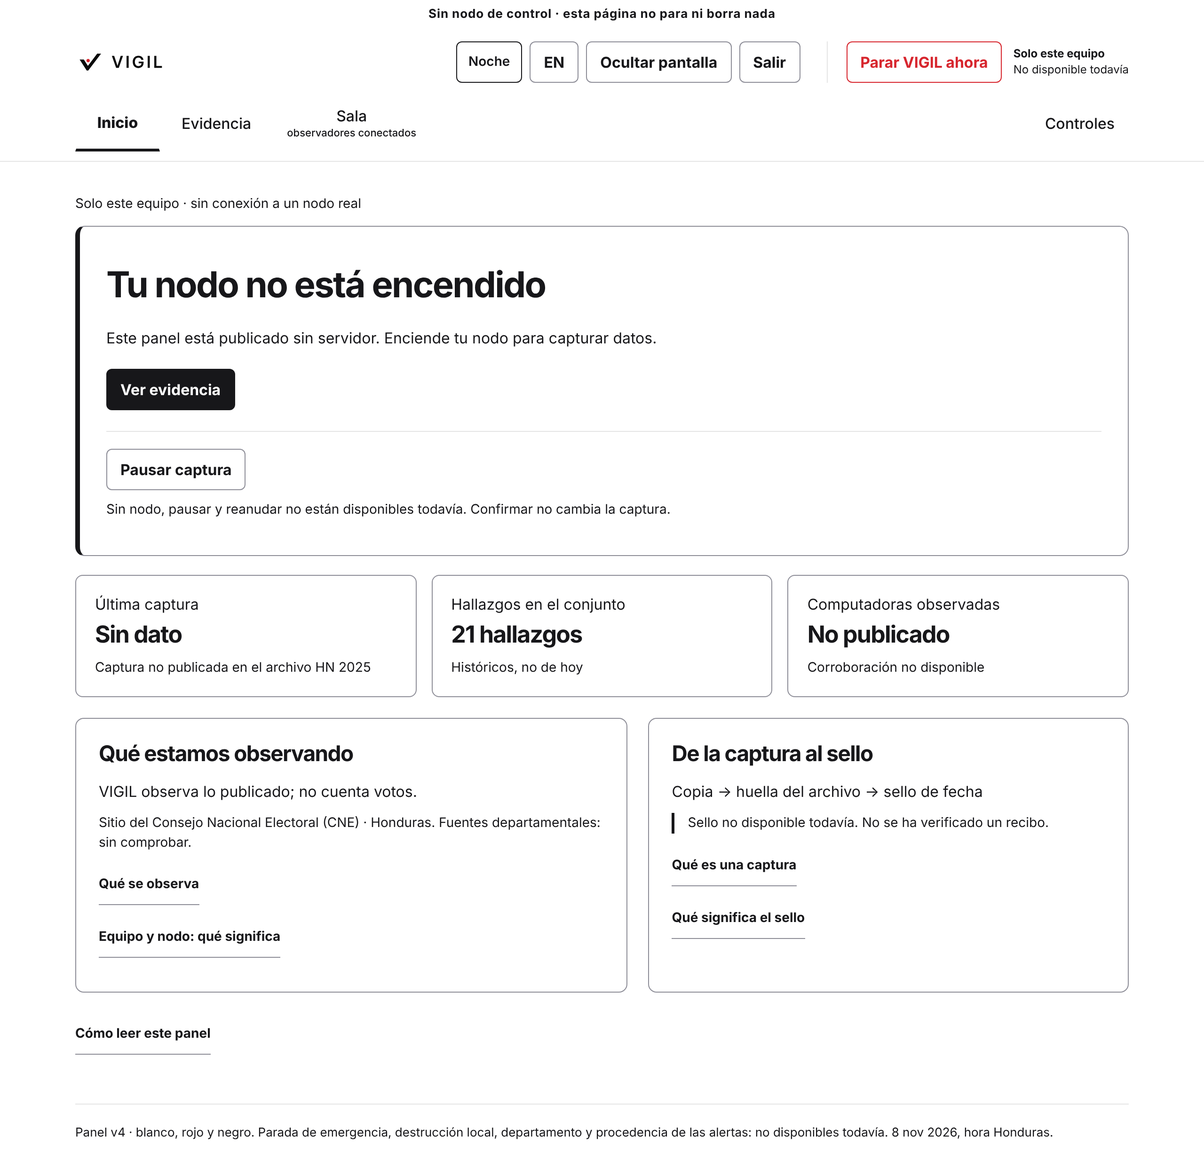
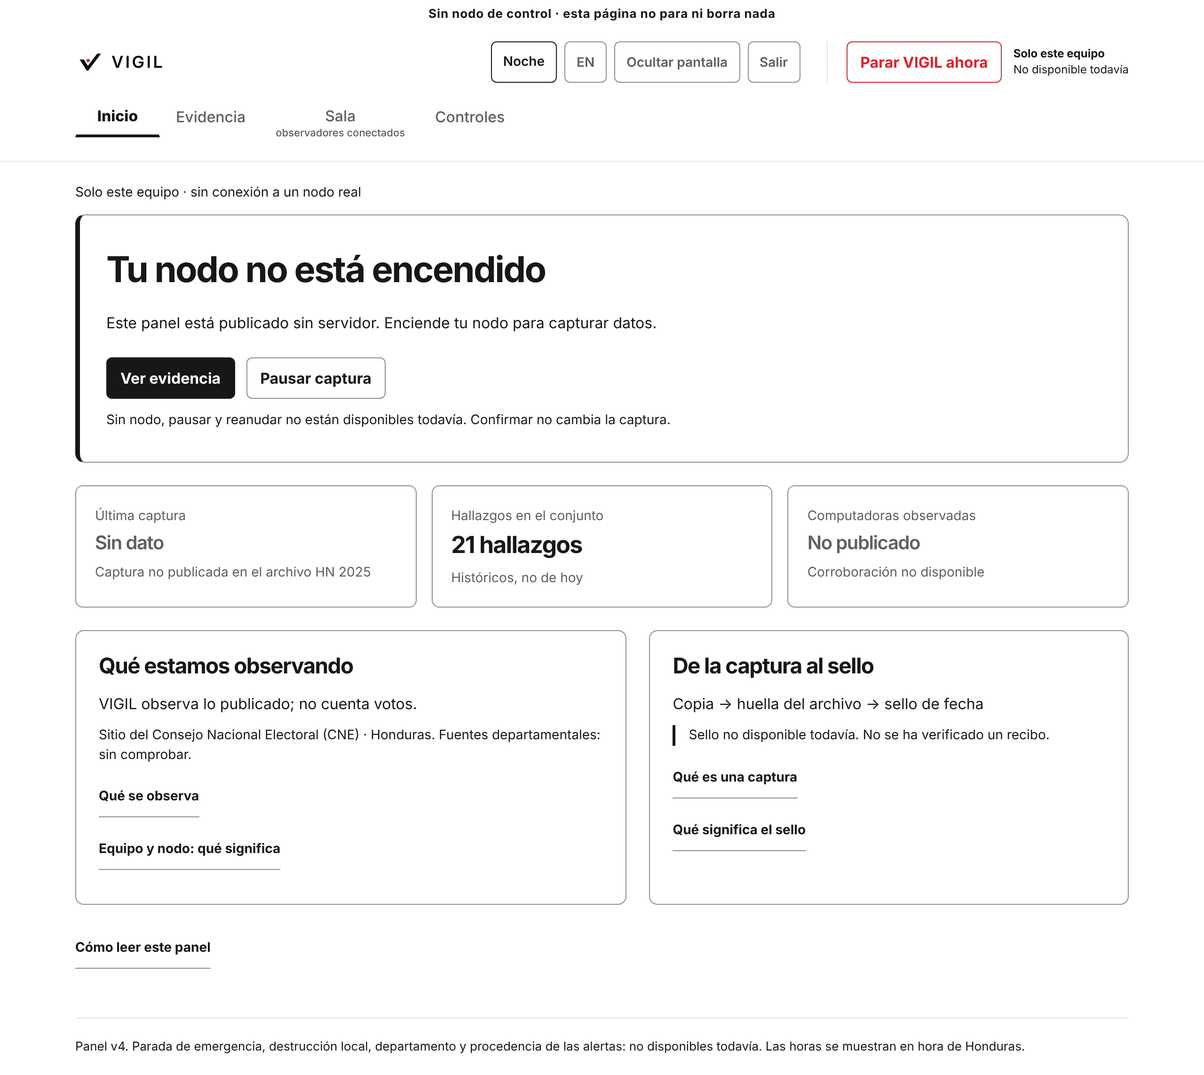
El panel se lee de un vistazo: pestanas, una fila de acciones y un dato que falta sin gritar
Cuatro defectos de la pantalla de inicio, los cuatro medidos antes y despues.

LA NAVEGACION PARECIA ROTA

`.nav button:last-child{margin-left:auto}` empujaba «Controles» al extremo
contrario de la barra. Medido: 638 px de hueco entre esa pestana y su vecina.
Eso no se lee como una decision sino como un fallo de maquetacion. Las cuatro
van juntas ahora —hueco de 2 px—, la activa en el color principal con su
subrayado y las demas en `--muted`, que es lo que distingue una pestana de un
boton.

Las etiquetas tampoco alineaban: «Sala» lleva un subtitulo y su boton es mas
alto, asi que con el centrado vertical por defecto su texto flotaba respecto a
las otras tres. `align-items:flex-start` las pone a la misma altura; medido,
las cuatro arrancan en 102 px.

LA ACCION PRINCIPAL Y LA SECUNDARIA ESTABAN SEPARADAS POR UN FILETE

`v4CaptureBlock()` devolvia boton y nota juntos dentro de un `.action-unit`
con borde superior, de modo que «Pausar captura» colgaba sola bajo una linea,
lejos de «Ver evidencia». Dos acciones del mismo bloque, dibujadas como si
fueran de secciones distintas.

El bloque se parte en `v4CaptureButton()` y `v4CaptureNote()`, y la pestana de
inicio pone los dos botones en la misma fila con la nota debajo.
`v4CaptureBlock()` sigue existiendo, compuesto de los dos, porque la pestana de
controles lo usa tal cual. El id `capture-button` no cambia: lo usan diez
aserciones de `test_ops_panel_state.py`.
[…]

diff --git a/web/ops/ops-v4.css b/web/ops/ops-v4.css
@@ -1,4 +1,4 @@
-:root{--red:#D7262E;--fg:#17171A;--bg:#ffffff;--border:#8E8E98;--hairline:#E5E5E5;--on-red:#ffffff;--ink:var(--fg);--paper:var(--bg);font-family:system-ui,-apple-system,'Segoe UI',sans-serif;color:var(--fg);background:var(--bg);font-synthesis:none}*{box-sizing:border-box}body{margin:0}button,input,select{font:inherit;color:var(--fg);background:var(--bg);border:1px solid var(--border);border-radius:6px;min-height:44px;padding:10px 14px;max-width:100%}button,summary{cursor:pointer;touch-action:manipulation}button{font-weight:650}button:hover:not(:disabled){text-decoration:underline;text-underline-offset:4px}button:disabled{border-style:dashed;cursor:not-allowed}a{color:var(--fg);text-underline-offset:4px}a,button,input,select,summary{scroll-margin:260px 0 100px}:focus-visible{outline:3px solid var(--fg);outline-offset:3px;box-shadow:0 0 0 6px var(--bg),0 0 0 9px var(--fg)}[hidden]{display:none!important}p{line-height:1.55;margin:10px 0}h1,h2,h3{letter-spacing:-.035em;line-height:1.18;margin:0}h1{font-size:38px;max-width:790px}h2{font-size:23px}h3{font-size:19px}small,.small{font-size:14px;line-height:1.5}.eyebrow{font-size:12px;letter-spacing:.12em;text-transform:uppercase;font-weight:700;margin-bottom:12px}.red{color:var(--red)}.primary{background:var(--fg);color:var(--bg);border-color:var(--fg)}.danger{border-color:var(--red);color:var(--red)}.solid{background:var(--red);color:var(--on-red);border-color:var(--red)}.skip{position:fixed;top:-100px;left:16px;z-index:20;background:var(--bg);padding:16px;border:2px solid var(--border)}.skip:focus{top:12px}.mast{position:sticky;top:0;z-index:5;background:var(--bg);border-bottom:1px solid var(--hairline)}.sim{background:var(--fg);color:var(--bg);padding:7px 20px;text-align:center;font-size:13px;font-weight:700;letter-spacing:.035em}.bar{max-width:1120px;margin:auto;display:flex;align-items:center;gap:16px;padding:14px 0}.brand{font-size:27px;font-weight:850;letter-spacing:-1.5px}.brand:before{content:'';display:inline-block;width:5px;height:23px;background:var(--red);margin-right:9px}.tools{display:flex;gap:8px;margin-left:auto}.emergency{display:flex;align-items:center;gap:12px;border-left:1px solid var(--hairline);padding-left:20px;margin-left:12px}.emergency p{font-size:12px;line-height:1.4;margin:0;max-width:215px}.nav{display:flex;gap:8px;max-width:1120px;margin:auto;padding:0 0 10px}.nav button{border-color:transparent;font-weight:550;border-radius:0;min-width:90px}.nav button[aria-current]{border-bottom:3px solid var(--fg);font-weight:800}.nav button:last-child{margin-left:auto}.wrap{max-width:1120px;margin:auto}main{padding:36px 0 40px;min-height:60vh}section,article{min-width:0}.meta{margin-bottom:15px;font-size:14px}.hero{border:1px solid var(--border);border-left:5px solid var(--fg);padding:28px;border-radius:10px}.hero.attention{border-left-color:var(--red)}.hero.attention h1{color:var(--red)}.hero p{max-width:780px}.actions{display:flex;gap:10px;align-items:center;flex-wrap:wrap;margin:20px 0 0}.action-unit{margin-top:22px;border-top:1px solid var(--hairline);padding-top:18px}.action-unit p{font-size:14px;max-width:780px}.cards{display:grid;grid-template-columns:repeat(3,1fr);gap:16px;margin:20px 0}.metric{border:1px solid var(--border);border-radius:8px;padding:20px}.metric b{display:block;font-size:25px;letter-spacing:-.035em;margin:8px 0}.grid{display:grid;grid-template-columns:1.15fr 1fr;gap:22px;margin:22px 0}.card{border:1px solid var(--border);border-radius:9px;padding:24px;margin-top:20px}.grid .card{margin:0}.card h2{margin-bottom:14px}.note{border-left:3px solid var(--fg);padding-left:14px;font-size:14px}.critical{border-left:4px solid var(--red)}.tag{display:inline-block;border:1px solid var(--border);padding:4px 9px;border-radius:25px;font-size:13px;font-weight:600}.tag.critical{border:1px solid var(--red);color:var(--red)}.finding{border-top:1px solid var(--hairline);padding:20px 0}.finding:first-child{border:0;padding-top:4px}.finding h3{margin:10px 0}.finding .meta-line{display:flex;gap:10px;align-items:center;justify-content:space-between;flex-wrap:wrap}.help-unit{margin:12px 0}.help-toggle{border:0;border-bottom:1px solid var(--border);border-radius:0;padding:8px 0;font-size:14px;min-height:44px}.help-panel{border-left:3px solid var(--fg);padding:8px 16px;margin:8px 0;max-width:760px}.help-panel p{font-size:15px}details{border-top:1px solid var(--hairline);padding:8px 0;margin-top:18px}summary{font-weight:650;padding:12px 0;min-height:48px}label{display:block;font-size:14px;font-weight:650;margin:14px 0 7px}input,select{width:100%;font-size:16px}.filters{display:grid;grid-template-columns:repeat(2,minmax(0,1fr));gap:0 16px}.error{color:var(--red);font-weight:650}.filters .wide{grid-column:1/-1}.geo-layout{display:grid;grid-template-columns:1fr 1fr;gap:24px;align-items:start}.map-wrap{margin:10px auto}.map-wrap svg{display:block;width:100%;height:auto}.map-wrap path{fill:var(--bg);stroke:var(--fg);stroke-width:1.3;vector-effect:non-scaling-stroke}.map-wrap path.selected{fill:var(--fg);stroke:var(--red);stroke-width:3}.table-wrap{overflow:auto}table{border-collapse:collapse;width:100%;font-size:14px}th,td{padding:8px 4px;border-bottom:1px solid var(--hairline);text-align:left}th button{border:0;border-radius:0;padding:8px 0;font-weight:550;text-align:left;min-width:44px}th button[aria-pressed=true]{text-decoration:underline;font-weight:800}caption{text-align:left;font-size:14px;padding:10px 0}.downloads{display:flex;flex-wrap:wrap;gap:10px;margin-top:16px}.status{border-left:3px solid var(--fg);padding:0 12px;margin:18px 0;line-height:1.5}.status.attention{border-color:var(--red);color:var(--red)}.option{padding:18px 0;border-top:1px solid var(--hairline)}.option p{font-size:14px}.demo{padding:18px 0 30px;border-top:1px solid var(--hairline)}.demo summary{font-size:14px}.demo-grid{display:grid;grid-template-columns:repeat(4,minmax(0,1fr));gap:16px}.footer{font-size:13px;border-top:1px solid var(--hairline);padding:22px 0}.dialog{color:var(--fg);background:var(--bg);border:2px solid var(--border);border-radius:14px;padding:28px;width:calc(100% - 32px);max-width:580px;max-height:88dvh;overflow:auto}.dialog::backdrop{background:rgba(0,0,0,.75)}.dialog h2{font-size:28px;margin:14px 0}.dialog .actions{justify-content:flex-end}.dialog .sim{margin:-28px -28px 20px}.cancel{position:sticky;bottom:0;background:var(--bg);padding:8px 0}.sr{position:absolute;width:1px;height:1px;padding:0;overflow:hidden;clip-path:inset(50%);white-space:nowrap}.cover{position:fixed;inset:0;background:var(--bg);z-index:30;display:grid;place-content:center;text-align:center;padding:24px}.cover .sim{position:absolute;top:0;left:0;right:0}.mono{font-family:ui-monospace,monospace;overflow-wrap:anywhere}.empty{padding:20px 0}.page-title{margin-bottom:22px}.page-title p{max-width:740px}.stopped-state{border:2px solid var(--border);border-radius:6px;padding:8px 12px;font-size:13px!important;max-width:260px!important}.nav small{display:block;font-size:11px;font-weight:500}.receipt{border:1px dashed var(--border);padding:16px;margin-top:18px}
+:root{--red:#D7262E;--fg:#17171A;--bg:#ffffff;--border:#8E8E98;--hairline:#E5E5E5;--on-red:#ffffff;--muted:#5E5E66;--s1:4px;--s2:8px;--s3:16px;--s4:24px;--s5:40px;--s6:64px;--ink:var(--fg);--paper:var(--bg);font-family:system-ui,-apple-system,'Segoe UI',sans-serif;color:var(--fg);background:var(--bg);font-synthesis:none}*{box-sizing:border-box}body{margin:0}button,input,select{font:inherit;color:var(--fg);background:var(--bg);border:1px solid var(--border);border-radius:6px;min-height:44px;padding:10px 14px;max-width:100%}button,summary{cursor:pointer;touch-action:manipulation}button{font-weight:650}button:hover:not(:disabled){text-decoration:underline;text-underline-offset:4px}button:disabled{border-style:dashed;cursor:not-allowed}a{color:var(--fg);text-underline-offset:4px}a,button,input,select,summary{scroll-margin:260px 0 100px}:focus-visible{outline:3px solid var(--fg);outline-offset:3px;box-shadow:0 0 0 6px var(--bg),0 0 0 9px var(--fg)}[hidden]{display:none!important}p{line-height:1.55;margin:10px 0}h1,h2,h3{letter-spacing:-.035em;line-height:1.18;margin:0}h1{font-size:38px;max-width:790px}h2{font-size:23px}h3{font-size:19px}small,.small{font-size:14px;line-height:1.5}.eyebrow{font-size:12px;letter-spacing:.12em;text-transform:uppercase;font-weight:700;margin-bottom:12px}.red{color:var(--red)}.primary{background:var(--fg);color:var(--bg);border-color:var(--fg)}.danger{border-color:var(--red);color:var(--red)}.solid{background:var(--red);color:var(--on-red);border-color:var(--red)}.skip{position:fixed;top:-100px;left:16px;z-index:20;background:var(--bg);padding:16px;border:2px solid var(--border)}.skip:focus{top:12px}.mast{position:sticky;top:0;z-index:5;background:var(--bg);border-bottom:1px solid var(--hairline)}.sim{background:var(--fg);color:var(--bg);padding:7px 20px;text-align:center;font-size:13px;font-weight:700;letter-spacing:.035em}.bar{max-width:1120px;margin:auto;display:flex;align-items:center;gap:16px;padding:14px 0}.brand{font-size:27px;font-weight:850;letter-spacing:-1.5px}.brand:before{content:'';display:inline-block;width:5px;height:23px;background:var(--red);margin-right:9px}.tools{display:flex;gap:var(--s2);margin-left:auto}.tools button{font-size:14px;font-weight:600;padding:9px 12px;color:var(--muted)}.tools button:hover:not(:disabled){color:var(--fg)}.emergency{display:flex;align-items:center;gap:12px;border-left:1px solid var(--hairline);padding-left:20px;margin-left:12px}.emergency p{font-size:12px;line-height:1.4;margin:0;max-width:215px}.nav{display:flex;gap:2px;align-items:flex-start;max-width:1120px;margin:auto;padding:0 0 10px}.nav button{border-color:transparent;font-weight:550;border-radius:0;min-width:90px;color:var(--muted)}.nav button[aria-current]{border-bottom:3px solid var(--fg);font-weight:800;color:var(--fg)}.wrap{max-width:1120px;margin:auto}main{padding:var(--s4) 0 var(--s5);min-height:60vh}section,article{min-width:0}.meta{margin-bottom:15px;font-size:14px}.hero{border:1px solid var(--border);border-left:5px solid var(--fg);padding:var(--s4) 28px;border-radius:10px}.hero.attention{border-left-color:var(--red)}.hero.attention h1{color:var(--red)}.hero p{max-width:780px}.hero>.small,.hero>.note{margin-top:12px}.actions{display:flex;gap:12px;align-items:center;flex-wrap:wrap;margin:var(--s4) 0 0}.action-unit{margin-top:22px;border-top:1px solid var(--hairline);padding-top:18px}.action-unit p{font-size:14px;max-width:780px}.cards{display:grid;grid-template-columns:repeat(3,1fr);gap:var(--s3);margin:var(--s4) 0}.metric{border:1px solid var(--border);border-radius:8px;padding:20px}.metric b{display:block;font-size:25px;letter-spacing:-.035em;margin:8px 0}.metric span{color:var(--muted);font-size:14px}.metric small{color:var(--muted)}.metric.sin-dato b{font-size:20px;font-weight:600;color:var(--muted)}.grid{display:grid;grid-template-columns:1.15fr 1fr;gap:var(--s4);margin:var(--s4) 0}.card{border:1px solid var(--border);border-radius:9px;padding:var(--s4);margin-top:var(--s4)}.grid .card{margin:0}.card h2{margin-bottom:14px}.note{border-left:3px solid var(--fg);padding-left:14px;font-size:14px}.critical{border-left:4px solid var(--red)}.tag{display:inline-block;border:1px solid var(--border);padding:4px 9px;border-radius:25px;font-size:13px;font-weight:600}.tag.critical{border:1px solid var(--red);color:var(--red)}.finding{border-top:1px solid var(--hairline);padding:20px 0}.finding:first-child{border:0;padding-top:4px}.finding h3{margin:10px 0}.finding .meta-line{display:flex;gap:10px;align-items:center;justify-content:space-between;flex-wrap:wrap}.help-unit{margin:12px 0}.help-toggle{border:0;border-bottom:1px solid var(--border);border-radius:0;padding:8px 0;font-size:14px;min-height:44px}.help-panel{border-left:3px solid var(--fg);padding:8px 16px;margin:8px 0;max-width:760px}.help-panel p{font-size:15px}details{border-top:1px solid var(--hairline);padding:8px 0;margin-top:18px}summary{font-weight:650;padding:12px 0;min-height:48px}label{display:block;font-size:14px;font-weight:650;margin:14px 0 7px}input,select{width:100%;font-size:16px}.filters{display:grid;grid-template-columns:repeat(2,minmax(0,1fr));gap:0 16px}.error{color:var(--red);font-weight:650}.filters .wide{grid-column:1/-1}.geo-layout{display:grid;grid-template-columns:1fr 1fr;gap:24px;align-items:start}.map-wrap{margin:10px auto}.map-wrap svg{display:block;width:100%;height:auto}.map-wrap path{fill:var(--bg);stroke:var(--fg);stroke-width:1.3;vector-effect:non-scaling-stroke}.map-wrap path.selected{fill:var(--fg);stroke:var(--red);stroke-width:3}.table-wrap{overflow:auto}table{border-collapse:collapse;width:100%;font-size:14px}th,td{padding:8px 4px;border-bottom:1px solid var(--hairline);text-align:left}th button{border:0;border-radius:0;padding:8px 0;font-weight:550;text-align:left;min-width:44px}th button[aria-pressed=true]{text-decoration:underline;font-weight:800}caption{text-align:left;font-size:14px;padding:10px 0}.downloads{display:flex;flex-wrap:wrap;gap:10px;margin-top:16px}.status{border-left:3px solid var(--fg);padding:0 12px;margin:18px 0;line-height:1.5}.status.attention{border-color:var(--red);color:var(--red)}.option{padding:18px 0;border-top:1px solid var(--hairline)}.option p{font-size:14px}.demo{padding:18px 0 30px;border-top:1px solid var(--hairline)}.demo summary{font-size:14px}.demo-grid{display:grid;grid-template-columns:repeat(4,minmax(0,1fr));gap:16px}.footer{font-size:13px;border-top:1px solid var(--hairline);padding:22px 0}.dialog{color:var(--fg);background:var(--bg);border:2px solid var(--border);border-radius:14px;padding:28px;width:calc(100% - 32px);max-width:580px;max-height:88dvh;overflow:auto}.dialog::backdrop{background:rgba(0,0,0,.75)}.dialog h2{font-size:28px;margin:14px 0}.dialog .actions{justify-content:flex-end}.dialog .sim{margin:-28px -28px 20px}.cancel{position:sticky;bottom:0;background:var(--bg);padding:8px 0}.sr{position:absolute;width:1px;height:1px;padding:0;overflow:hidden;clip-path:inset(50%);white-space:nowrap}.cover{position:fixed;inset:0;background:var(--bg);z-index:30;display:grid;place-content:center;text-align:center;padding:24px}.cover .sim{position:absolute;top:0;left:0;right:0}.mono{font-family:ui-monospace,monospace;overflow-wrap:anywhere}.empty{padding:20px 0}.page-title{margin-bottom:22px}.page-title p{max-width:740px}.stopped-state{border:2px solid var(--border);border-radius:6px;padding:8px 12px;font-size:13px!important;max-width:260px!important}.nav small{display:block;font-size:11px;font-weight:500}.receipt{border:1px dashed var(--border);padding:16px;margin-top:18px}
 @media(max-width:1180px){.wrap,.bar,.nav{margin-left:28px;margin-right:28px}}
 @media(max-width:700px){.bar{margin:0;padding:10px 18px;flex-wrap:wrap;gap:8px}.brand{font-size:24px}.tools{gap:6px}.tools button{font-size:14px;padding:8px}.emergency{order:3;border-left:0;border-top:1px solid var(--hairline);padding:10px 0 0;margin:0;gap:10px;width:100%}.emergency button{font-size:14px;flex:0 0 auto;padding:10px}.emergency p{font-size:12px;max-width:none}.nav{margin:0 12px;padding-bottom:5px;gap:0;display:grid;grid-template-columns:repeat(4,minmax(0,1fr))}.nav button{min-width:0;padding:10px 2px;font-size:14px}.nav button:last-child{margin-left:0}.sim{font-size:12px;padding:7px 12px;line-height:1.35}.wrap{margin:0 18px}main{padding-top:24px}h1{font-size:30px}h2{font-size:22px}.hero{padding:22px 18px}.hero p{font-size:16px}.cards{grid-template-columns:1fr;gap:0;margin:18px 0}.metric{border-radius:0;border-bottom:0;padding:16px}.metric:first-child{border-radius:7px 7px 0 0}.metric:last-child{border-bottom:1px solid var(--hairline);border-radius:0 0 7px 7px}.metric b{font-size:23px}.grid,.geo-layout{grid-template-columns:1fr;gap:18px}.card{padding:20px 18px}.actions button{flex:1}.actions{align-items:stretch}.action-unit p{font-size:14px}.demo-grid{grid-template-columns:1fr 1fr}.dialog{padding:24px;max-height:90dvh;border-radius:12px}.dialog .sim{margin:-24px -24px 18px}.dialog .actions{flex-direction:column}.dialog .cancel{padding:10px 0 0}.filters{grid-template-columns:1fr}.filters .wide{grid-column:auto}.downloads{display:grid;grid-template-columns:1fr}.small{font-size:14px}.meta{font-size:13px}.footer{padding-bottom:28px}a,button,input,select,summary{scroll-margin-top:260px}}
 @media(prefers-reduced-motion:reduce){*{scroll-behavior:auto!important}}@media print{.mast,.demo,.footer,.actions,.downloads{display:none}main{padding:0}.wrap{margin:0}details{display:block}}
@@ -21,3 +21,6 @@ html[data-ops-tab="avanzado"] #main-area > [data-tab="avanzado"]{display:block !
 .section{min-width:0}
 
 @media(max-width:700px){html[data-theme] .nav{background:var(--bg);border-top-color:var(--fg)}}
+
+html[data-theme] .mast .tools .theme-toggle{border-color:var(--border);color:var(--muted);font-weight:600}
+html[data-theme] .mast .tools .theme-toggle:hover{color:var(--fg)}

diff --git a/web/ops/js/ops-v4.js b/web/ops/js/ops-v4.js
@@ -220,16 +220,23 @@ function v4Banner() {
     : v4t('Nodo de control conectado · parada de emergencia y destrucción no están disponibles', 'Control node connected · emergency stop and destruction are not available');
 }
 
-function v4CaptureBlock(buttonId) {
+function v4CaptureButton(buttonId) {
+  if (!v4CanOperate()) return '';
+  const paused = V4.capture === 'paused' && V4.captureKnown;
+  const id = buttonId || 'capture-button';
+  return paused
+    ? v4Btn('Reanudar captura', 'Resume capture', 'resume', '', false, id)
+    : v4Btn('Pausar captura', 'Pause capture', 'pause', '', false, id);
+}
+
+// La nota vive aparte del boton para que el boton pueda ir en la fila de
+// acciones, junto a la accion principal, en vez de colgar solo bajo un filete.
+function v4CaptureNote() {
   if (!v4CanOperate()) {
     return v4P('Vista de observador: sin acciones de operación.', 'Observer view: no operating actions.', 'note');
   }
   const paused = V4.capture === 'paused' && V4.captureKnown;
-  const id = buttonId || 'capture-button';
-  const label = paused
-    ? v4Btn('Reanudar captura', 'Resume capture', 'resume', '', false, id)
-    : v4Btn('Pausar captura', 'Pause capture', 'pause', '', false, id);
-  const note = v4Pages()
+  return v4Pages()
     ? v4P('Sin nodo, pausar y reanudar no están disponibles todavía. Confirmar no cambia la captura.', 'Without a node, pause and resume are not available yet. Confirming does not change capture.', 'small')
     : v4P(paused
       ? 'Reanudar pide al nodo que inicie de nuevo con una captura inmediata. No recupera un proceso suspendido.'
@@ -237,7 +244,11 @@ function v4CaptureBlock(buttonId) {
       paused
       ? 'Resume asks the node to start again with an immediate capture. It does not recover a suspended process.'
       : 'Pause asks the node to stop capture alone. A task in progress may finish. Saved data is not deleted.');
-  return `<div class="action-unit">${label}${note}</div>`;
+}
+
+function v4CaptureBlock(buttonId) {
+  if (!v4CanOperate()) return v4CaptureNote();
+  return `<div class="action-unit">${v4CaptureButton(buttonId)}${v4CaptureNote()}</div>`;
 }
 
 function v4Home() {
@@ -252,15 +263,15 @@ function v4Home() {
   <div class="eyebrow" id="hero-eyebrow"></div>
   <h1 id="hero-headline" class="page-title" tabindex="-1"></h1>
   <p id="hero-detail"></p>
-  <div class="actions">${v4Btn('Ver evidencia', 'View evidence', 'nav-evidencia', 'primary')}</div>
-  ${v4CaptureBlock()}
+  <div class="actions">${v4Btn('Ver evidencia', 'View evidence', 'nav-evidencia', 'primary')}${v4CaptureButton()}</div>
+  ${v4CaptureNote()}
 </section>
 <div class="cards">
-  <section class="metric"><span>${v4t('Última captura', 'Last capture')}</span><b>${v4t('Sin dato', 'Unknown')}</b><small>${v4t('Captura no publicada en el archivo HN 2025', 'Capture not published in the HN 2025 archive')}</small></section>
-  <section class="metric"><span>${v4t('Hallazgos en el conjunto', 'Findings in dataset')}</span><b>${count}</b><small>${V4.rows == null
+  <section class="metric sin-dato"><span>${v4t('Última captura', 'Last capture')}</span><b>${v4t('Sin dato', 'Unknown')}</b><small>${v4t('Captura no publicada en el archivo HN 2025', 'Capture not published in the HN 2025 archive')}</small></section>
+  <section class="metric${V4.rows == null ? ' sin-dato' : ''}"><span>${v4t('Hallazgos en el conjunto', 'Findings in dataset')}</span><b>${count}</b><small>${V4.rows == null
     ? v4t('No hay lectura. No es cero.', 'No reading. This is not zero.')
     : v4t('Históricos, no de hoy', 'Historical, not today')}</small></section>
-  <section class="metric"><span>${v4t('Computadoras observadas', 'Observed computers')}</span><b>${v4t('No publicado', 'Not published')}</b><small>${v4t('Corroboración no disponible', 'Corroboration unavailable')}</small></section>
+  <section class="metric sin-dato"><span>${v4t('Computadoras observadas', 'Observed computers')}</span><b>${v4t('No publicado', 'Not published')}</b><small>${v4t('Corroboración no disponible', 'Corroboration unavailable')}</small></section>
 </div>
 <div class="grid">
   <section class="card"><h2>${v4t('Qué estamos observando', 'What we are watching')}</h2>
@@ -490,8 +501,8 @@ function v4NavLabels() {
   const foot = v4$('#ops-footer');
   if (foot) {
     foot.textContent = v4t(
-      'Panel v4 · blanco, rojo y negro. Parada de emergencia, destrucción local, departamento y procedencia de las alertas: no disponibles todavía. 8 nov 2026, hora Honduras.',
-      'Panel v4 · white, red and black. Emergency stop, local destruction, department and alert provenance: not available yet. 8 Nov 2026, Honduras time.');
+      'Panel v4. Parada de emergencia, destrucción local, departamento y procedencia de las alertas: no disponibles todavía. Las horas se muestran en hora de Honduras.',
+      'Panel v4. Emergency stop, local destruction, department and alert provenance: not available yet. Times are shown in Honduras time.');
   }
 }
 

diff --git a/tests/test_ops_panel_uses_theme_tokens.py b/tests/test_ops_panel_uses_theme_tokens.py
@@ -159,19 +159,40 @@ def test_la_hoja_del_panel_consume_los_tokens_del_tema() -> None:
         assert token in usados, f"ops-v4.css no usa {token} en ninguna parte"
 
 
-def test_cada_token_que_usa_el_panel_existe_en_los_dos_modos() -> None:
-    """Uno definido solo en el respaldo daría color claro de noche, en silencio."""
+def _tokens_locales(css: str) -> dict[str, str]:
+    """Las propiedades personalizadas que la propia hoja declara, con su valor."""
+    locales = {}
+    for propiedad, valor, _ in _declaraciones(css):
+        if propiedad.startswith("--"):
+            locales[propiedad] = valor
+    return locales
+
+
+def test_cada_token_de_color_que_usa_el_panel_existe_en_los_dos_modos() -> None:
+    """Uno definido solo en el respaldo daría color claro de noche, en silencio.
+
+    La regla vale para los tokens de COLOR, no para todos. `--s3: 16px` es una
+    medida de la escala de espaciado: no cambia con el modo y vive solo aquí,
+    y exigirle una definición por modo seria pedirle a la hoja de tema que
+    declare el espaciado dos veces para que diga lo mismo. Lo que distingue a
+    uno de otro es su valor: si el respaldo de `:root` es un color, el token
+    es de color y tiene que existir en los dos modos.
+    """
     css = HOJA_OPS.read_text(encoding="utf-8")
     usados = set(USO_DE_TOKEN.findall(css))
+    locales = _tokens_locales(css)
     claro, oscuro = _tokens_del_tema("light"), _tokens_del_tema("dark")
 
-    faltan = {t: [] for t in sorted(usados)}
+    faltan = {}
     for token in sorted(usados):
-        if token not in claro:
-            faltan[token].append("light")
-        if token not in oscuro:
-            faltan[token].append("dark")
-    huerfanos = {t: m for t, m in faltan.items() if m}
+        respaldo = locales.get(token)
+        es_medida = respaldo is not None and not LITERAL.search(respaldo)
+        if es_medida:
+            continue  # escala de espaciado: la misma de día y de noche
+        modos = [m for m, d in (("light", claro), ("dark", oscuro)) if token not in d]
+        if modos:
+            faltan[token] = modos
+    huerfanos = faltan
 
     assert not huerfanos, (
         f"ops-v4.css consume tokens que vigil-theme.css no define: {huerfanos}. "
